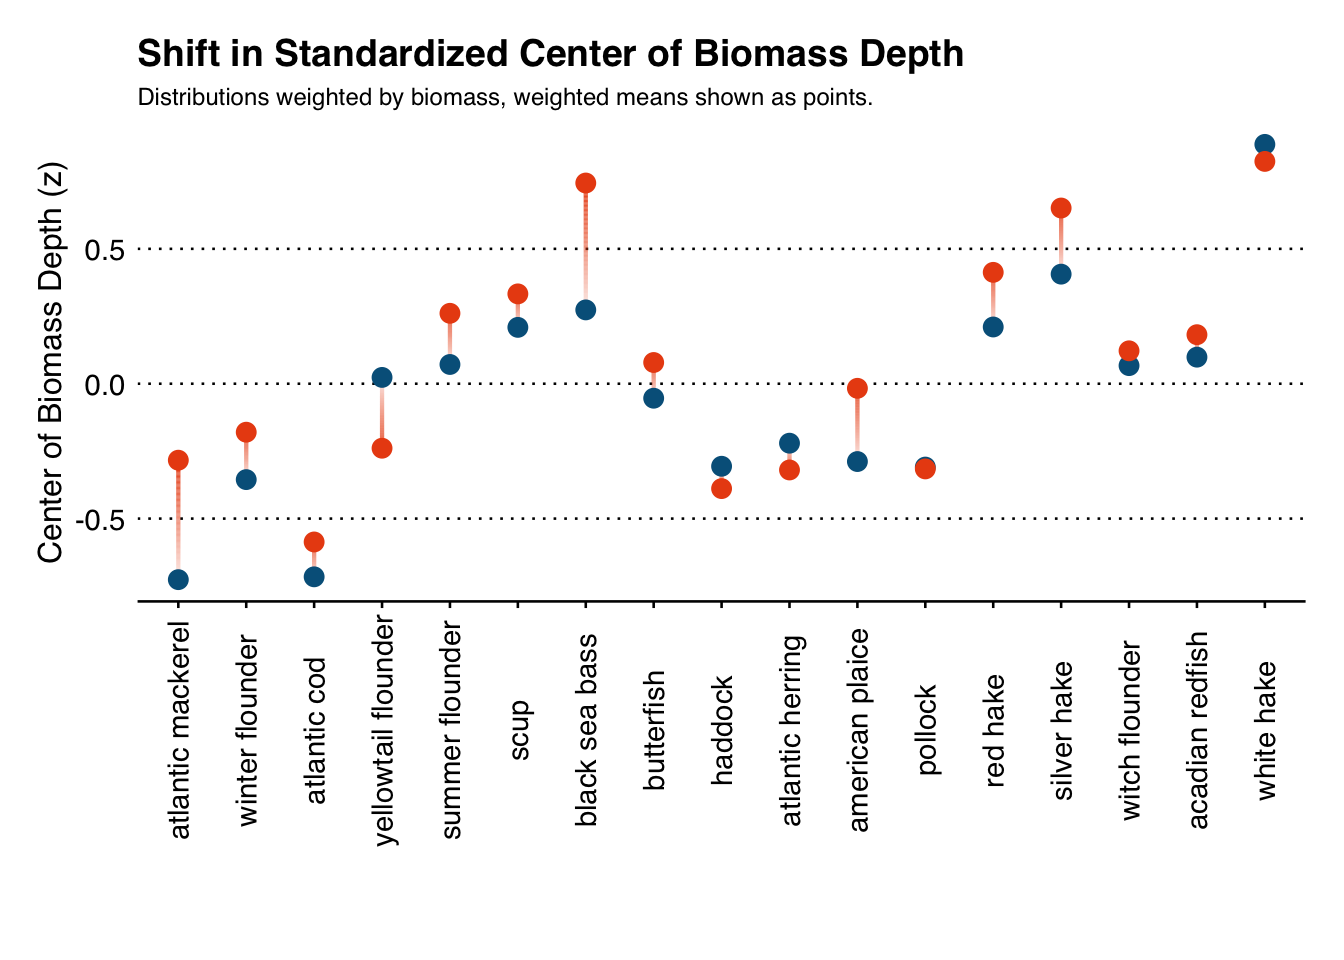
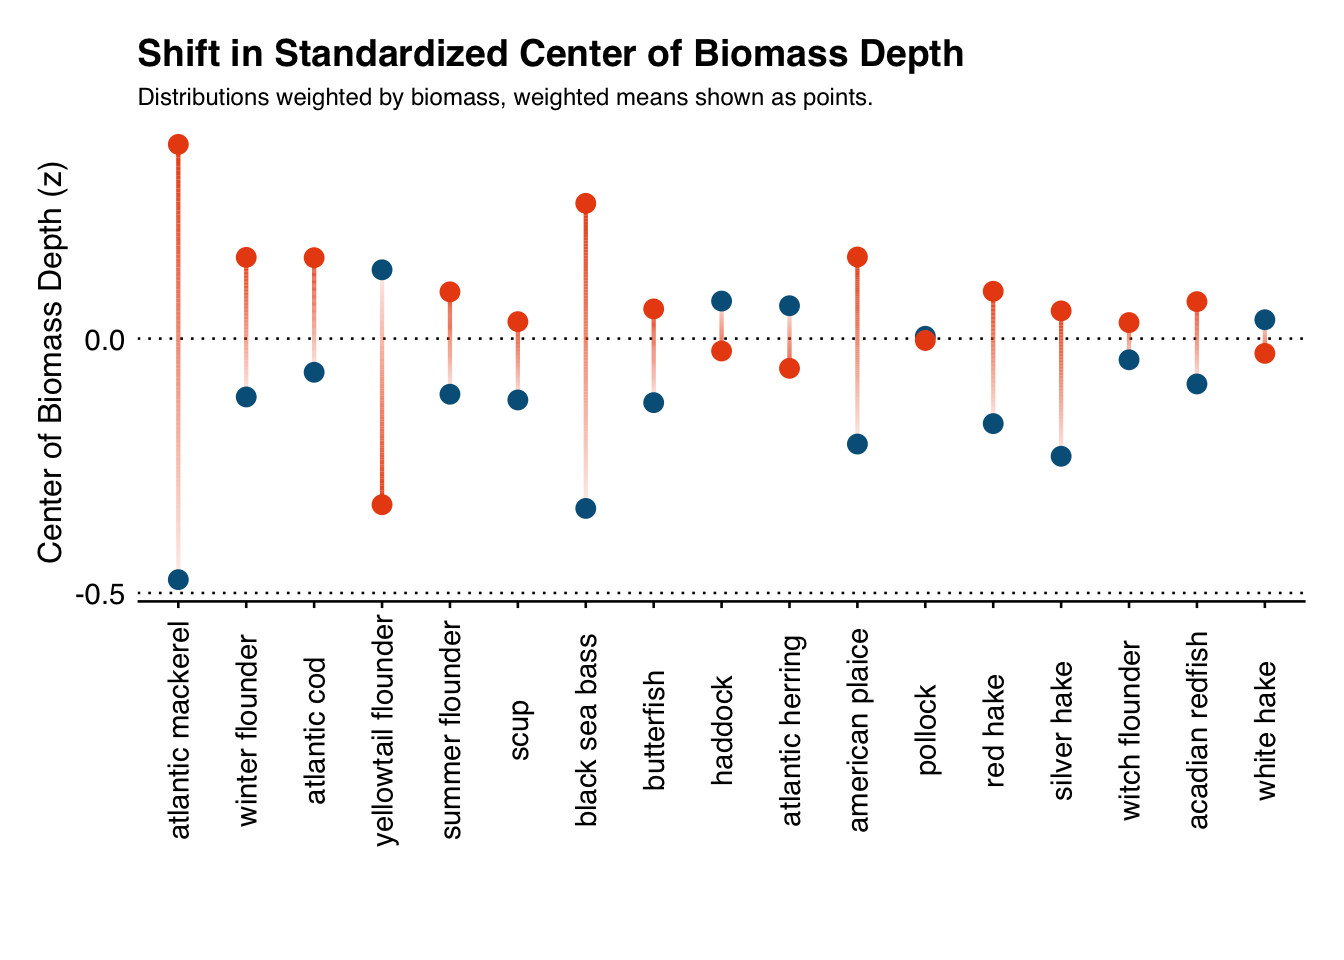
made global benchmarks weighted

diff --git a/R/size_at_age/encounter_temperatures.html b/R/size_at_age/encounter_temperatures.html
@@ -510,14 +510,14 @@ a {
 <span id="cb3-64"><a href="#cb3-64" aria-hidden="true" tabindex="-1"></a>  <span class="fu">summarise</span>(</span>
 <span id="cb3-65"><a href="#cb3-65" aria-hidden="true" tabindex="-1"></a>    <span class="at">avg_biomass     =</span> <span class="fu">mean</span>(biomass_kg),</span>
 <span id="cb3-66"><a href="#cb3-66" aria-hidden="true" tabindex="-1"></a>    <span class="at">biomass_sd      =</span> <span class="fu">sd</span>(biomass_kg),</span>
-<span id="cb3-67"><a href="#cb3-67" aria-hidden="true" tabindex="-1"></a>    <span class="at">avg_depth       =</span> <span class="fu">weightedMean</span>(avgdepth, <span class="at">na.rm =</span> T),</span>
-<span id="cb3-68"><a href="#cb3-68" aria-hidden="true" tabindex="-1"></a>    <span class="at">avg_temp        =</span> <span class="fu">weightedMean</span>(bottemp, <span class="at">na.rm =</span> T),</span>
-<span id="cb3-69"><a href="#cb3-69" aria-hidden="true" tabindex="-1"></a>    <span class="at">avg_lat         =</span> <span class="fu">weightedMean</span>(decdeg_beglat, <span class="at">na.rm =</span> T),</span>
-<span id="cb3-70"><a href="#cb3-70" aria-hidden="true" tabindex="-1"></a>    <span class="at">avg_lon         =</span> <span class="fu">weightedMean</span>(decdeg_beglon, <span class="at">na.rm =</span> T),</span>
-<span id="cb3-71"><a href="#cb3-71" aria-hidden="true" tabindex="-1"></a>    <span class="at">depth_sd        =</span> <span class="fu">weightedSd</span>(avgdepth, <span class="at">na.rm =</span> T),</span>
-<span id="cb3-72"><a href="#cb3-72" aria-hidden="true" tabindex="-1"></a>    <span class="at">temp_sd         =</span> <span class="fu">weightedSd</span>(bottemp, <span class="at">na.rm =</span> T),</span>
-<span id="cb3-73"><a href="#cb3-73" aria-hidden="true" tabindex="-1"></a>    <span class="at">lat_sd          =</span> <span class="fu">weightedSd</span>(decdeg_beglat, <span class="at">na.rm =</span> T),</span>
-<span id="cb3-74"><a href="#cb3-74" aria-hidden="true" tabindex="-1"></a>    <span class="at">lon_sd          =</span> <span class="fu">weightedSd</span>(decdeg_beglon, <span class="at">na.rm =</span> T),</span>
+<span id="cb3-67"><a href="#cb3-67" aria-hidden="true" tabindex="-1"></a>    <span class="at">avg_depth       =</span> <span class="fu">weightedMean</span>(avgdepth, <span class="at">w =</span> biomass_kg, <span class="at">na.rm =</span> T),</span>
+<span id="cb3-68"><a href="#cb3-68" aria-hidden="true" tabindex="-1"></a>    <span class="at">avg_temp        =</span> <span class="fu">weightedMean</span>(bottemp, <span class="at">w =</span> biomass_kg, <span class="at">na.rm =</span> T),</span>
+<span id="cb3-69"><a href="#cb3-69" aria-hidden="true" tabindex="-1"></a>    <span class="at">avg_lat         =</span> <span class="fu">weightedMean</span>(decdeg_beglat, <span class="at">w =</span> biomass_kg, <span class="at">na.rm =</span> T),</span>
+<span id="cb3-70"><a href="#cb3-70" aria-hidden="true" tabindex="-1"></a>    <span class="at">avg_lon         =</span> <span class="fu">weightedMean</span>(decdeg_beglon, <span class="at">w =</span> biomass_kg, <span class="at">na.rm =</span> T),</span>
+<span id="cb3-71"><a href="#cb3-71" aria-hidden="true" tabindex="-1"></a>    <span class="at">depth_sd        =</span> <span class="fu">weightedSd</span>(avgdepth, <span class="at">w =</span> biomass_kg, <span class="at">na.rm =</span> T),</span>
+<span id="cb3-72"><a href="#cb3-72" aria-hidden="true" tabindex="-1"></a>    <span class="at">temp_sd         =</span> <span class="fu">weightedSd</span>(bottemp, <span class="at">w =</span> biomass_kg, <span class="at">na.rm =</span> T),</span>
+<span id="cb3-73"><a href="#cb3-73" aria-hidden="true" tabindex="-1"></a>    <span class="at">lat_sd          =</span> <span class="fu">weightedSd</span>(decdeg_beglat, <span class="at">w =</span> biomass_kg, <span class="at">na.rm =</span> T),</span>
+<span id="cb3-74"><a href="#cb3-74" aria-hidden="true" tabindex="-1"></a>    <span class="at">lon_sd          =</span> <span class="fu">weightedSd</span>(decdeg_beglon, <span class="at">w =</span> biomass_kg, <span class="at">na.rm =</span> T),</span>
 <span id="cb3-75"><a href="#cb3-75" aria-hidden="true" tabindex="-1"></a>    <span class="at">.groups =</span> <span class="st">"drop"</span></span>
 <span id="cb3-76"><a href="#cb3-76" aria-hidden="true" tabindex="-1"></a>  )</span></code><button title="Copy to Clipboard" class="code-copy-button"><i class="bi"></i></button></pre></div>
 </details>
@@ -1625,14 +1625,14 @@ window.document.addEventListener("DOMContentLoaded", function (event) {
 <span id="cb21-232"><a href="#cb21-232" aria-hidden="true" tabindex="-1"></a>  <span class="fu">summarise</span>(</span>
 <span id="cb21-233"><a href="#cb21-233" aria-hidden="true" tabindex="-1"></a>    <span class="at">avg_biomass     =</span> <span class="fu">mean</span>(biomass_kg),</span>
 <span id="cb21-234"><a href="#cb21-234" aria-hidden="true" tabindex="-1"></a>    <span class="at">biomass_sd      =</span> <span class="fu">sd</span>(biomass_kg),</span>
-<span id="cb21-235"><a href="#cb21-235" aria-hidden="true" tabindex="-1"></a>    <span class="at">avg_depth       =</span> <span class="fu">weightedMean</span>(avgdepth, <span class="at">na.rm =</span> T),</span>
-<span id="cb21-236"><a href="#cb21-236" aria-hidden="true" tabindex="-1"></a>    <span class="at">avg_temp        =</span> <span class="fu">weightedMean</span>(bottemp, <span class="at">na.rm =</span> T),</span>
-<span id="cb21-237"><a href="#cb21-237" aria-hidden="true" tabindex="-1"></a>    <span class="at">avg_lat         =</span> <span class="fu">weightedMean</span>(decdeg_beglat, <span class="at">na.rm =</span> T),</span>
-<span id="cb21-238"><a href="#cb21-238" aria-hidden="true" tabindex="-1"></a>    <span class="at">avg_lon         =</span> <span class="fu">weightedMean</span>(decdeg_beglon, <span class="at">na.rm =</span> T),</span>
-<span id="cb21-239"><a href="#cb21-239" aria-hidden="true" tabindex="-1"></a>    <span class="at">depth_sd        =</span> <span class="fu">weightedSd</span>(avgdepth, <span class="at">na.rm =</span> T),</span>
-<span id="cb21-240"><a href="#cb21-240" aria-hidden="true" tabindex="-1"></a>    <span class="at">temp_sd         =</span> <span class="fu">weightedSd</span>(bottemp, <span class="at">na.rm =</span> T),</span>
-<span id="cb21-241"><a href="#cb21-241" aria-hidden="true" tabindex="-1"></a>    <span class="at">lat_sd          =</span> <span class="fu">weightedSd</span>(decdeg_beglat, <span class="at">na.rm =</span> T),</span>
-<span id="cb21-242"><a href="#cb21-242" aria-hidden="true" tabindex="-1"></a>    <span class="at">lon_sd          =</span> <span class="fu">weightedSd</span>(decdeg_beglon, <span class="at">na.rm =</span> T),</span>
+<span id="cb21-235"><a href="#cb21-235" aria-hidden="true" tabindex="-1"></a>    <span class="at">avg_depth       =</span> <span class="fu">weightedMean</span>(avgdepth, <span class="at">w =</span> biomass_kg, <span class="at">na.rm =</span> T),</span>
+<span id="cb21-236"><a href="#cb21-236" aria-hidden="true" tabindex="-1"></a>    <span class="at">avg_temp        =</span> <span class="fu">weightedMean</span>(bottemp, <span class="at">w =</span> biomass_kg, <span class="at">na.rm =</span> T),</span>
+<span id="cb21-237"><a href="#cb21-237" aria-hidden="true" tabindex="-1"></a>    <span class="at">avg_lat         =</span> <span class="fu">weightedMean</span>(decdeg_beglat, <span class="at">w =</span> biomass_kg, <span class="at">na.rm =</span> T),</span>
+<span id="cb21-238"><a href="#cb21-238" aria-hidden="true" tabindex="-1"></a>    <span class="at">avg_lon         =</span> <span class="fu">weightedMean</span>(decdeg_beglon, <span class="at">w =</span> biomass_kg, <span class="at">na.rm =</span> T),</span>
+<span id="cb21-239"><a href="#cb21-239" aria-hidden="true" tabindex="-1"></a>    <span class="at">depth_sd        =</span> <span class="fu">weightedSd</span>(avgdepth, <span class="at">w =</span> biomass_kg, <span class="at">na.rm =</span> T),</span>
+<span id="cb21-240"><a href="#cb21-240" aria-hidden="true" tabindex="-1"></a>    <span class="at">temp_sd         =</span> <span class="fu">weightedSd</span>(bottemp, <span class="at">w =</span> biomass_kg, <span class="at">na.rm =</span> T),</span>
+<span id="cb21-241"><a href="#cb21-241" aria-hidden="true" tabindex="-1"></a>    <span class="at">lat_sd          =</span> <span class="fu">weightedSd</span>(decdeg_beglat, <span class="at">w =</span> biomass_kg, <span class="at">na.rm =</span> T),</span>
+<span id="cb21-242"><a href="#cb21-242" aria-hidden="true" tabindex="-1"></a>    <span class="at">lon_sd          =</span> <span class="fu">weightedSd</span>(decdeg_beglon, <span class="at">w =</span> biomass_kg, <span class="at">na.rm =</span> T),</span>
 <span id="cb21-243"><a href="#cb21-243" aria-hidden="true" tabindex="-1"></a>    <span class="at">.groups =</span> <span class="st">"drop"</span></span>
 <span id="cb21-244"><a href="#cb21-244" aria-hidden="true" tabindex="-1"></a>  )</span>
 <span id="cb21-245"><a href="#cb21-245" aria-hidden="true" tabindex="-1"></a><span class="in">```</span></span>
